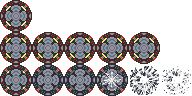
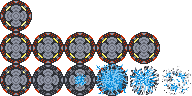
SwarmerEnemy, Sniper & Machinegun buffs

diff --git a/SecondSemesterExamProject/Constant.cs b/SecondSemesterExamProject/Constant.cs
@@ -8,7 +8,7 @@ namespace TankGame
 {
     enum VehicleType { None, Tank, Bike, Plane }
     enum BulletType { BasicBullet, BiggerBullet, ShotgunPellet, SniperBullet, SpitterBullet };
-    enum EnemyType { BasicEnemy, BasicEliteEnemy, Spitter };
+    enum EnemyType { BasicEnemy, BasicEliteEnemy, Swarmer, Spitter };
     enum TowerType { BasicTower, ShotgunTower, SniperTower, MachineGunTower };
     enum CrateType { WeaponCrate, TowerCrate, MoneyCrate, HealthCrate };
     enum WeaponType { BasicWeapon, MachineGun, Shotgun, Sniper }
@@ -107,8 +107,8 @@ namespace TankGame
         #region SniperTower
         public static readonly int sniperTowerPrice = 400;
         public static readonly string sniperTowerSpriteSheet = "TowerSniper";
-        public static readonly float sniperTowerFireRate = 4f;
-        public static readonly int sniperTowerHealth = 80;
+        public static readonly float sniperTowerFireRate = 5f;
+        public static readonly int sniperTowerHealth = 120;
         public static readonly BulletType sniperTowerBulletType = BulletType.SniperBullet;
         public static readonly int sniperTowerAttackRange = 400;
         public static readonly int sniperTowerSpread = 0;
@@ -117,7 +117,7 @@ namespace TankGame
 
         #region MachineGunTower
         public static readonly int machineGunTowerPrice = 250;
-        public static readonly string machineGunTowerSpriteSheet = "TowerBasic";
+        public static readonly string machineGunTowerSpriteSheet = "TowerMachineGun";
         public static readonly float machineGunTowerFireRate = 0.2f;
         public static readonly int machineGunTowerHealth = 120;
         public static readonly BulletType machineGunTowerBulletType = BulletType.BasicBullet;
@@ -144,9 +144,9 @@ namespace TankGame
 
         #region sniperBullet
         public static readonly string sniperBulletSheet = "SniperBullet";
-        public static readonly float sniperBulletMovementSpeed = 1111;
+        public static readonly float sniperBulletMovementSpeed = 1500;
         public static readonly float sniperBulletLifeSpan = 0.8f;
-        public static readonly int sniperBulletBulletDmg = 500;
+        public static readonly int sniperBulletBulletDmg = 700;
         #endregion;
 
         #region shotgunPellet
@@ -175,7 +175,7 @@ namespace TankGame
         #endregion;
 
         #region Sniper
-        public readonly static float sniperFireRate = 1.7f;
+        public readonly static float sniperFireRate = 1.6f;
         public readonly static int sniperAmmo = 20;
         public readonly static BulletType sniperBulletType = BulletType.SniperBullet;
         public readonly static int sniperSpread = 0;
@@ -191,8 +191,8 @@ namespace TankGame
         #endregion;
 
         #region MachineGun
-        public readonly static float MachineGunFireRate = 0.1f;
-        public readonly static int MachineGunGunAmmo = 400;
+        public readonly static float MachineGunFireRate = 0.07f;
+        public readonly static int MachineGunGunAmmo = 500;
         public readonly static int MachineGunSpread = 7;
         public readonly static BulletType MachineGunBulletType = BulletType.BasicBullet;
         #endregion;
@@ -214,12 +214,23 @@ namespace TankGame
         public readonly static int basicEliteEnemyGold = 6;
         public static readonly string basicEliteEnemySpriteSheet = "BasicEliteEnemy";
         public static readonly int basicEliteEnemyHealth = 500;
-        public static readonly float basicEliteEnemyMovementSpeed = 25;
+        public static readonly float basicEliteEnemyMovementSpeed = 30;
         public static readonly float basicEliteEnemyAttackRate = 0.7f;
         public static readonly int basicEliteEnemyDamage = 15;
         public readonly static int basicEliteEnemyAttackRadius = 150;
         public static readonly float basicEliteSpawnModifier = 100;
 
+        #endregion
+
+        #region SwarmerEnemy
+        public readonly static int swarmerEnemyGold = 2;
+        public static readonly string swarmerEnemySpriteSheet = "SwarmerEnemy";
+        public static readonly int swarmerEnemyHealth = 100;
+        public static readonly float swarmerEnemyMovementSpeed = 60;
+        public static readonly float swarmerEnemyAttackRate = 0.6f;
+        public static readonly int swarmerEnemyDamage = 5;
+        public readonly static int swarmerEnemyAttackRadius = 150;
+        public static readonly float swarmerSpawnModifier = 300;
         #endregion
         #endregion
         #region Ranged

diff --git a/SecondSemesterExamProject/Components/Enemies/Melee/SwarmerEnemy.cs b/SecondSemesterExamProject/Components/Enemies/Melee/SwarmerEnemy.cs
@@ -1,0 +1,116 @@
+using Microsoft.Xna.Framework;
+using Microsoft.Xna.Framework.Content;
+using System;
+using System.Collections.Generic;
+using System.Linq;
+using System.Text;
+using System.Threading.Tasks;
+
+namespace TankGame
+{
+    class SwarmerEnemy : Melee
+    {
+
+        /// <summary>
+        /// Basic Enemy Constructor
+        /// </summary>
+        /// <param name="gameObject"></param>
+        /// <param name="alignment"></param>
+        /// <param name="health"></param>
+        /// <param name="movementSpeed"></param>
+        /// <param name="attackRate"></param>
+        public SwarmerEnemy(GameObject gameObject, int health, int damage, float movementSpeed, float attackRate, float attackRange, EnemyType enemyType) 
+            : base(gameObject, health, damage, movementSpeed, attackRate,attackRange, enemyType)
+        {
+
+        }
+
+
+        /// <summary>
+        /// Creates the animations
+        /// </summary>
+        protected override void CreateAnimation()
+        {
+            animator.CreateAnimation("Idle", new Animation(4, 19, 0, 17, 19, 10, Vector2.Zero));
+            animator.CreateAnimation("Walk", new Animation(4, 38, 0, 17, 19, 16, Vector2.Zero));
+            animator.CreateAnimation("Attack1", new Animation(4, 57, 0, 17, 19, 8, Vector2.Zero));
+            animator.CreateAnimation("Attack2", new Animation(4, 76, 0, 17, 19, 8, Vector2.Zero));
+            animator.CreateAnimation("Death", new Animation(4, 95, 0, 17, 19, 6, Vector2.Zero));
+            base.CreateAnimation();
+        }
+
+        /// <summary>
+        /// loads the enemy
+        /// </summary>
+        /// <param name="content"></param>
+        public override void LoadContent(ContentManager content)
+        {
+            base.LoadContent(content);
+        }
+
+        /// <summary>
+        /// Override for Enemy.AI()
+        /// </summary>
+        public override void AI()
+        {
+            base.AI();
+        }
+        /// <summary>
+        /// handles which animation should the tank be running
+        /// </summary>
+        /// <param name="animationName"></param>
+        public override void OnAnimationDone(string animationName)
+        {
+            base.OnAnimationDone(animationName);
+            if (animationName.Contains("Attack"))
+            {
+                movementSpeed = Constant.swarmerEnemyMovementSpeed;
+            }
+        }
+
+        /// <summary>
+        /// handles what the enemy does
+        /// </summary>
+        public override void Update()
+        {
+            base.Update();
+        }
+
+        /// <summary>
+        /// handles what happens when the basicEnemy dies
+        /// </summary>
+        protected override void Die()
+        {
+            base.Die();
+        }
+
+        protected override void CheckIfCanAttack(Collider other)
+        {
+
+            base.CheckIfCanAttack(other);
+
+
+        }
+
+        /// <summary>
+        /// Basic Enemy's custom Attack method for attacking vehicles
+        /// </summary>
+        /// <param name="vehicle"></param>
+        protected override void AttackVehicle(Vehicle vehicle)
+        {
+            this.movementSpeed = -60; //Slows enemy down when attacking ( Resets after attackanimation is done)
+            base.AttackVehicle(vehicle);
+        }
+
+        /// <summary>
+        /// Basic Enemy's custon attack method for attacking vehicles
+        /// </summary>
+        /// <param name="tower"></param>
+        protected override void AttackTower(Tower tower)
+        {
+            this.movementSpeed = -40;//Slows enemy down when attacking ( Resets after attackanimation is done)
+            base.AttackTower(tower);
+        }
+
+    }
+}

diff --git a/SecondSemesterExamProject/Spawn.cs b/SecondSemesterExamProject/Spawn.cs
@@ -22,6 +22,7 @@ namespace TankGame
         private float crateStamp;
         private float eliteBasicEnemyChance = Constant.basicEliteSpawnModifier;//spawn chance out of 1000
         private float spitterChance = Constant.spitterSpawnModifier;
+        private float swarmerChance = Constant.swarmerSpawnModifier;
 
 
         /// <summary>
@@ -96,6 +97,7 @@ namespace TankGame
                 wave++;
                 eliteBasicEnemyChance += (eliteBasicEnemyChance * 0.03f);//add to the chance of harder enemies
                 spitterChance += (spitterChance * 0.03f);
+                swarmerChance += (swarmerChance * 0.03f);
 
                 int side = rnd.Next(0, 5);
                 Rectangle spawnRectangle;
@@ -198,7 +200,16 @@ namespace TankGame
                     }
                     else
                     {
-                        enemyType = EnemyType.BasicEnemy;
+                        roll = rnd.Next(1001);
+                        if (roll <= swarmerChance && !chosen)
+                        {
+                            enemyType = EnemyType.Swarmer;
+                            chosen = true;
+                        }
+                        else
+                        {
+                            enemyType = EnemyType.BasicEnemy;
+                        }
                     }
                 }
                 EnemyPool.Instance.CreateEnemy(spawnPos, enemyType);

diff --git a/SecondSemesterExamProject/Builders/EnemyBuilder.cs b/SecondSemesterExamProject/Builders/EnemyBuilder.cs
@@ -36,6 +36,16 @@ namespace TankGame
 
                     break;
 
+                case EnemyType.Swarmer:
+                    go.AddComponent(new SpriteRenderer(go, Constant.swarmerEnemySpriteSheet, 0.2f));
+
+                    go.AddComponent(new Animator(go));
+
+                    go.AddComponent(new SwarmerEnemy(go, Constant.swarmerEnemyHealth, Constant.swarmerEnemyDamage,
+                            Constant.swarmerEnemyMovementSpeed, Constant.swarmerEnemyAttackRate, Constant.swarmerEnemyAttackRadius, type));
+
+                    break;
+
                 case EnemyType.Spitter:
                     go.AddComponent(new SpriteRenderer(go, Constant.spitterSpriteSheet, 0.2f));
 

diff --git a/SecondSemesterExamProject/Components/Vehicle/Bike.cs b/SecondSemesterExamProject/Components/Vehicle/Bike.cs
@@ -68,7 +68,7 @@ namespace TankGame
             animator.CreateAnimation("Shoot", new Animation(5, 136, 0, 21, 36, 14 / weapon.FireRate, new Vector2(-1, -1)));
             //animator.CreateAnimation("MoveShootForward", new Animation(5, 170, 0, 21, 49, 8, Vector2.Zero));
             //animator.CreateAnimation("MoveShootBackward", new Animation(5, 256, 0, 21, 49, 8, Vector2.Zero));
-            animator.CreateAnimation("Death", new Animation(5, 170, 0, 21, 34, 6, Vector2.Zero));
+            animator.CreateAnimation("Death", new Animation(6, 170, 0, 21, 34, 6, Vector2.Zero));
         }
 
         /// <summary>

diff --git a/SecondSemesterExamProject/Components/Enemies/Enemy.cs b/SecondSemesterExamProject/Components/Enemies/Enemy.cs
@@ -261,7 +261,7 @@ namespace TankGame
         protected virtual void CreateAnimation()
         {
             //Enemy Animation Set
-            animator.CreateAnimation("TPose", new Animation(1, 0, 0, 23, 23, 3, Vector2.Zero));
+            animator.CreateAnimation("TPose", new Animation(1, 0, 0, 23, 23, 3, Vector2.Zero)); //Please note that this only displays correctly for Basic Enemy and is only a failure detection measure
         }
 
         /// <summary>

diff --git a/SecondSemesterExamProject/Components/Bullets/SniperBullet.cs b/SecondSemesterExamProject/Components/Bullets/SniperBullet.cs
@@ -50,7 +50,7 @@ namespace TankGame
         /// </summary>
         public override void CreateAnimation()
         {
-            animator.CreateAnimation("Idle", new Animation(1, 0, 0, 4, 29, 3, Vector2.Zero));
+            animator.CreateAnimation("Idle", new Animation(1, 0, 0, 4, 50, 3, Vector2.Zero));
             base.CreateAnimation();
         }
 
